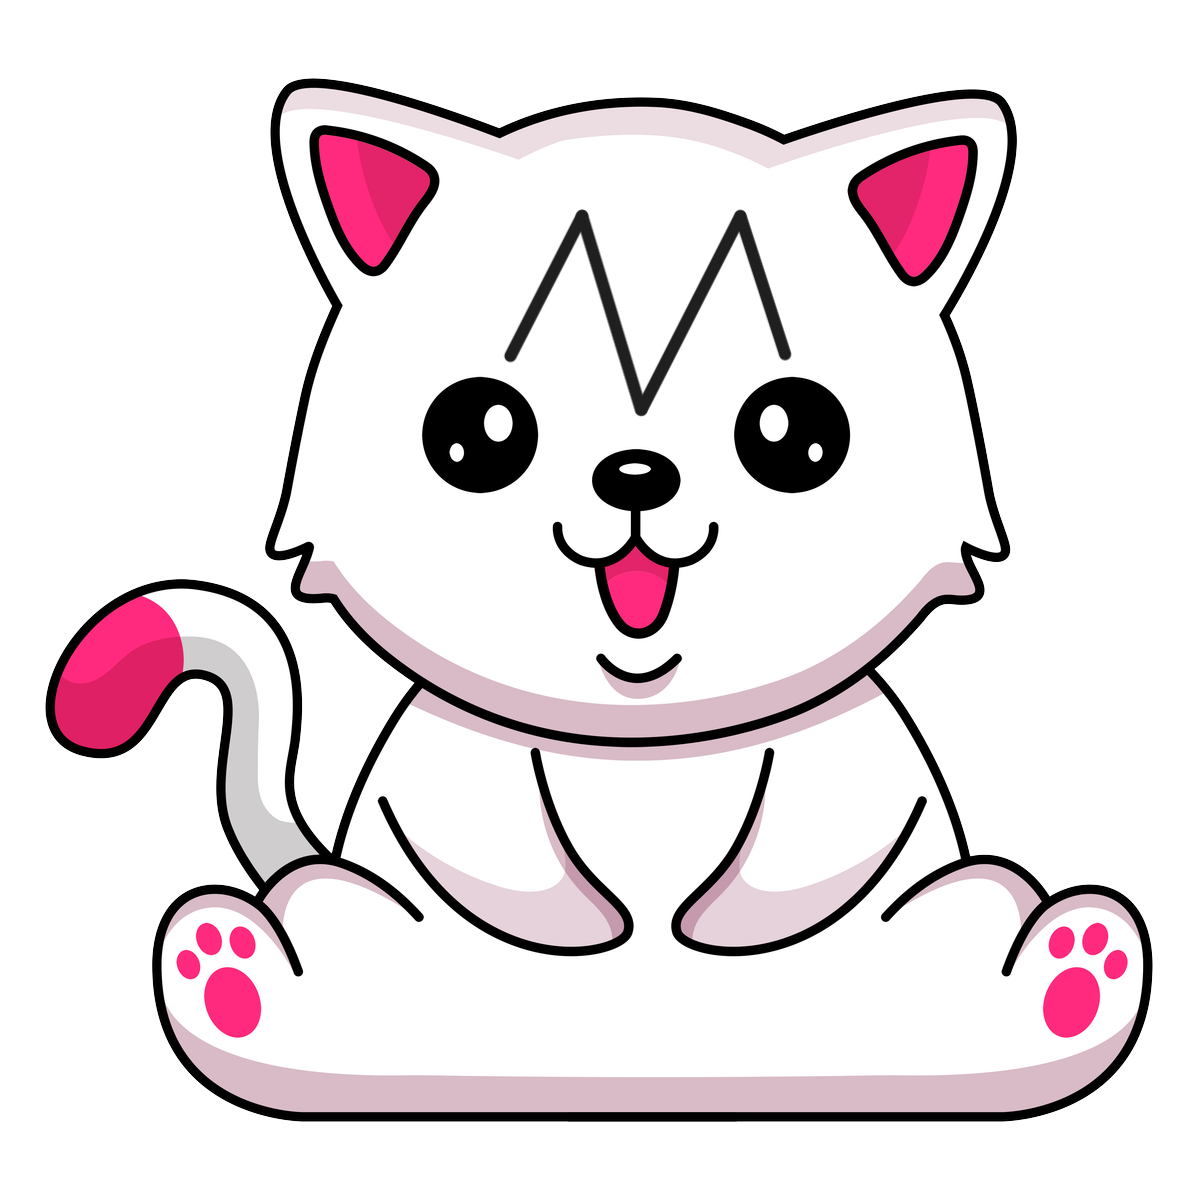
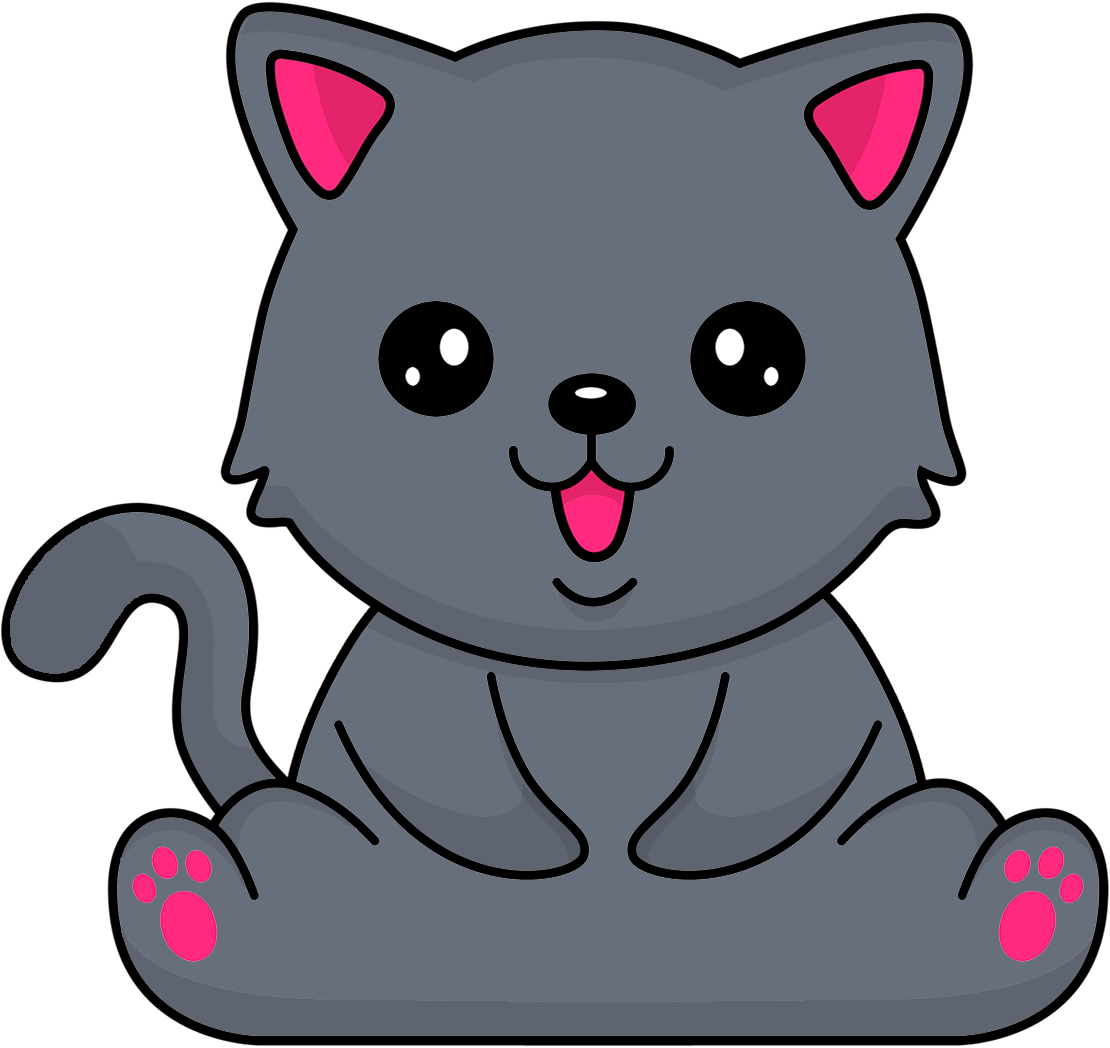
Pet Assets Updated and Shop Updated

diff --git a/src/screens/ProfileScreen.js b/src/screens/ProfileScreen.js
@@ -78,7 +78,7 @@ const styles = StyleSheet.create({
     width: '100%',
     padding: 18,
     borderBottomWidth: 3,
-    borderBottomColor: '#fff', // Change to white to match the new header background
+    borderBottomColor: 'white', // Change to white to match the new header background
     backgroundColor: '#ff6f00', // Change to #ff6f00
   },
   headerTitle: {
@@ -86,7 +86,7 @@ const styles = StyleSheet.create({
     fontWeight: 'bold',
     flex: 1,
     textAlign: 'center',
-    color: '#fff', // Change text color to white
+    color: 'white', // Change text color to white
   },
   closeButton: {
     position: 'absolute',
@@ -99,23 +99,24 @@ const styles = StyleSheet.create({
     padding: 20,
   },
   petImageContainer: {
-    position: 'relative',
+    width: 300, // Adjust as necessary for your layout
+    height: 300, // Adjust as necessary for your layout
     alignItems: 'center',
     justifyContent: 'center',
+    overflow: 'hidden', // This will hide any parts of the image that exceed the container size
   },
   petImage: {
-    width: 300,
-    height: 300,
-    marginBottom: 20,
-    marginLeft: -30,
+    width: '100%',
+    height: '100%',
+    resizeMode: 'contain',
   },
   glassesImage: {
     position: 'absolute',
-    width: 300,
-    height: 500,
+    width: 330, // Adjust as necessary
+    height: 500, // Adjust as necessary
     resizeMode: 'contain',
     top: -110,
-    left: -30,
+    left: -15,
   },
   infoText: {
     fontSize: 22,

diff --git a/src/utils/petImages.js b/src/utils/petImages.js
@@ -1,13 +1,16 @@
 const petImages = {
-  whiteHappy: require('../assets/images/white-happy-cat.png'),
-  whiteSad: require('../assets/images/white-sad-cat.png'),
-  whiteNeutral: require('../assets/images/white-neutral-cat.png'),
   gingerHappy: require('../assets/images/ginger-happy-cat.png'),
   gingerSad: require('../assets/images/ginger-sad-cat.png'),
   gingerNeutral: require(`../assets/images/ginger-neutral-cat.png`),
+  whiteHappy: require('../assets/images/white-happy-cat.png'),
+  whiteSad: require('../assets/images/white-sad-cat.png'),
+  whiteNeutral: require('../assets/images/white-neutral-cat.png'),
   greyHappy: require('../assets/images/grey-happy-cat.png'),
   greySad: require('../assets/images/grey-sad-cat.png'),
   greyNeutral: require('../assets/images/grey-neutral-cat.png'),
+  blackHappy: require('../assets/images/black-happy-cat.png'),
+  blackSad: require('../assets/images/black-sad-cat.png'),
+  blackNeutral: require('../assets/images/black-neutral-cat.png'),
     // If you have glasses as an overlay, consider adding it here as well
     glassesOverlay: require('../assets/images/glasses-overlay.png'),
   };

diff --git a/src/screens/HomeScreen.js b/src/screens/HomeScreen.js
@@ -10,7 +10,7 @@ function HomeScreen({ navigation }) {
   const [username, setUsername] = useState("Loading...");
   const [petName, setPetName] = useState("Loading...");
   const [happinessLevel, setHappinessLevel] = useState(100);
-  const [petColor, setPetColor] = useState('white');
+  const [petColor, setPetColor] = useState('grey');
   const [backgroundColour, setBackgroundColour] = useState('grey');
   const [hasGlasses, setHasGlasses] = useState(false);
   const [buttonsPressed, setButtonsPressed] = useState({});
@@ -131,8 +131,8 @@ const styles = StyleSheet.create({
     justifyContent: 'center',
   },
   petImage: {
-    width: 350,
-    height: 450,
+    width: 330,
+    height: 430,
     resizeMode: 'contain',
     marginLeft: 20,
   },
@@ -141,8 +141,8 @@ const styles = StyleSheet.create({
     width: 400, // Adjust as necessary
     height: 350,
     resizeMode: 'contain',
-    right: -25, // Move to the right side
-    bottom: 60,
+    right: -35, // Move to the right side
+    bottom: 55,
     marginTop: 10,
   },
   petName: {

diff --git a/src/screens/ShopScreen.js b/src/screens/ShopScreen.js
@@ -262,9 +262,9 @@ const styles = StyleSheet.create({
     padding: 16,
   },
   item: {
-    backgroundColor: 'white',
+    backgroundColor: '#ff6f00',
     borderRadius: 10,
-    borderColor: '#ff6f00', // Set the border color to white
+    borderColor: 'white', // Set the border color to white
     borderWidth: 3, // Set the border width, adjust as needed
     padding: 8, // Slightly reduced padding
     margin: 4, // Reduced margin to give more space
@@ -274,9 +274,10 @@ const styles = StyleSheet.create({
     minHeight: 160, // Adjust the minHeight to ensure items have enough space
   },
   itemName: {
-    fontSize: 16, // Adjusted font size if necessary
-    fontWeight: 'bold',
-    marginBottom: 4, // Adjusted spacing
+    fontSize: 18, // Increased font size
+    fontWeight: 'bold', // Make text bold
+    color: 'white', // Set text color to white
+    marginBottom: 8, // Increased space below the text
   },
   button: {
     backgroundColor: '#e7e7e7',

diff --git a/src/screens/SettingsScreen.js b/src/screens/SettingsScreen.js
@@ -12,7 +12,7 @@ const SettingsScreen = ({ navigation }) => {
   const [newPetName, setNewPetName] = useState('');
   const [currentUsername, setCurrentUsername] = useState('');
   const [currentPetName, setCurrentPetName] = useState('');
-  const [backgroundColour, setBackgroundColour] = useState('white'); // For background color updates
+  const [backgroundColour, setBackgroundColour] = useState('lightgrey'); // For background color updates
 
   useEffect(() => {
     const user = auth.currentUser;

diff --git a/src/screens/LoginScreen.js b/src/screens/LoginScreen.js
@@ -49,7 +49,7 @@ function LoginScreen({ navigation }) {
               ownedItems: [],
               equippedItems: {
                 backgroundColour: 'lightgrey',
-                petColour: 'white',
+                petColour: 'grey',
                 glasses: false,
               },
               settings: {
